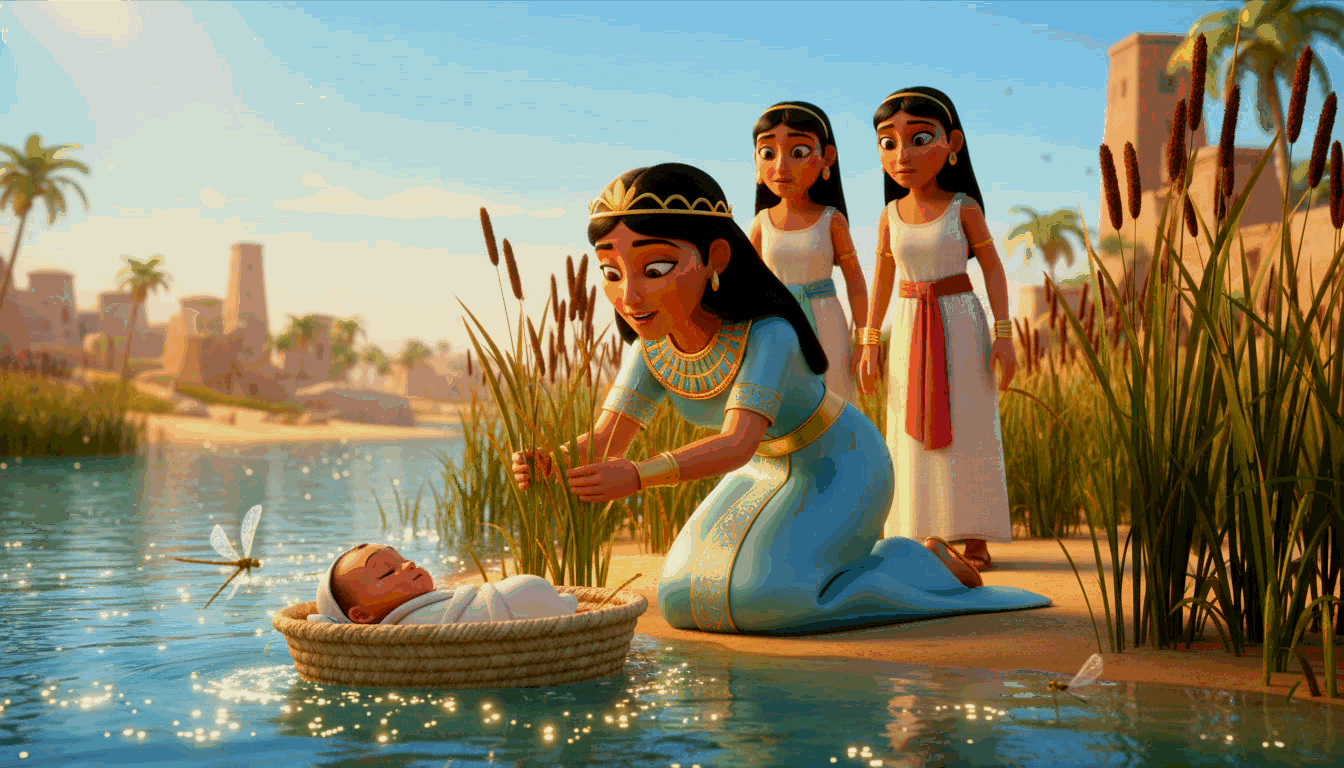
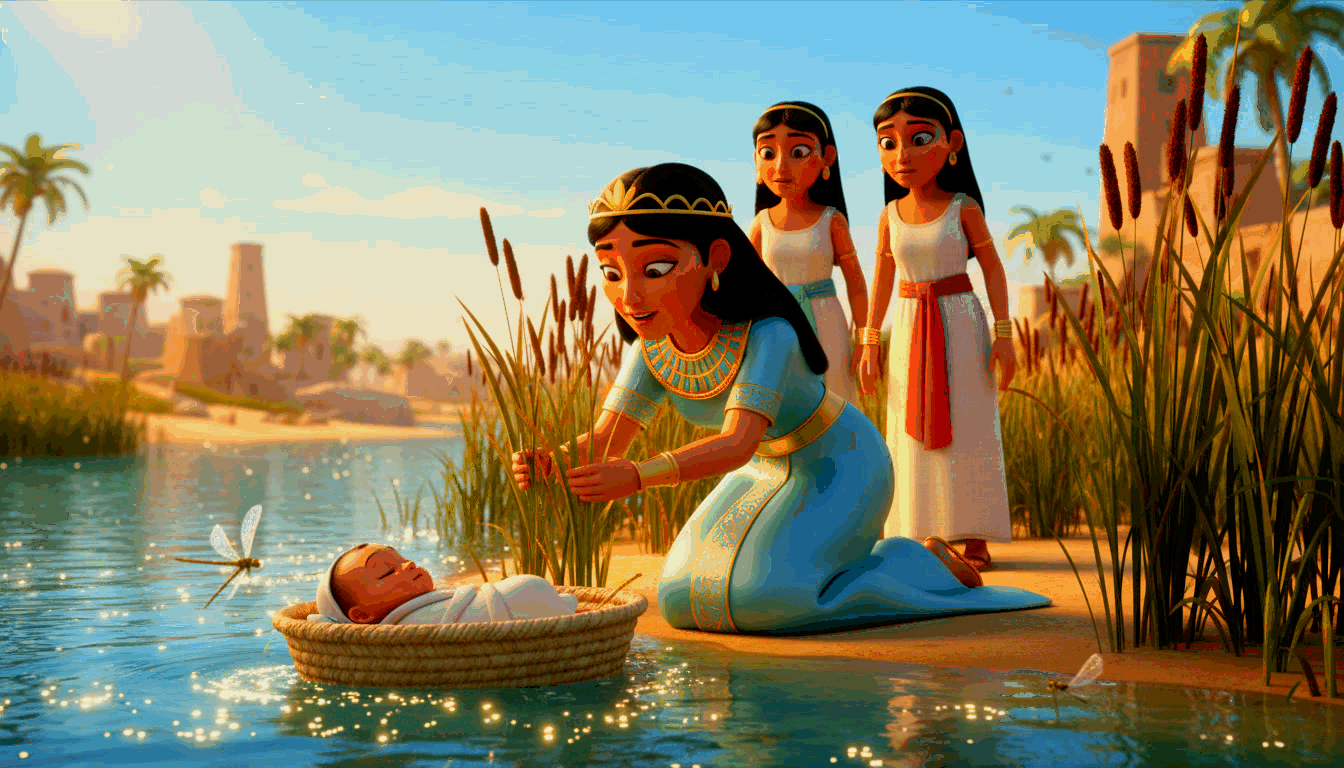
Palace-dog antagonist, key SFX, de-bleach images, remove unused, better clues (v118->v119)
- Palace dog is now a pure ANTAGONIST — removed the wrong "recognizes Moses and wags
  its tail / +1 bonus star" modal and the friendly/random variant. It barks + alerts
  guards; catching Moses still costs a heart. (Post-catch it downgrades to a harmless
  patrol via _spentCatch instead of flipping d.friendly, which had resurrected the modal.)
- Golden key pickup now plays magic sfx.mp3.
- De-bleached 4 washed-out images (princess-rescue spot-diff A/B with identical params to
  keep the puzzle's 4 differences intact, prelude-5 1/2) via saturation+contrast restore.
- Removed 9 genuinely-unused images (verified no exact/dynamic refs in any game file):
  black bomb, courage/kindness/patience icon, golden palace tile, palace wall 1, rank
  bronze/gold/silver. (The other 27 Jane listed ARE referenced — kept to avoid breakage.)
- More relevant HARD clues: the fight->flight beat (why-are-you-hitting / who-made-you-
  ruler / what-Pharaoh-did) and Jethro's reaction now hint at the actual answer instead
  of the generic "Every answer is in the Bible" filler (trivia/tf now lead with the
  specific clue).

diff --git a/scene1_palace.html b/scene1_palace.html
@@ -7148,18 +7148,18 @@ const dogs = [
   // Throne quadrant dog — paces between two corners of the upper hall
   { tx:9,  ty:3,  patrolPath:[{x:9,y:3},{x:13,y:3},{x:13,y:5},{x:9,y:5}],
     pi:0, dir:'right', state:'patrol', timer:0, seeRadius:5, patrolMs:520,
-    friendly: Math.random() < 0.20, wag:0, barking:false, barkingUntil:0,
+    friendly: false, wag:0, barking:false, barkingUntil:0,   // Jane 2026-07-04: dog is a pure ANTAGONIST — never friendly/wag/bonus
     isDog:true },
   // Mid corridor dog — patrols the same row Jane reported "guard never
   // chased me here". Now this one absolutely will.
   { tx:23, ty:11, patrolPath:[{x:18,y:11},{x:28,y:11},{x:28,y:13},{x:18,y:13}],
     pi:0, dir:'right', state:'patrol', timer:0, seeRadius:5, patrolMs:520,
-    friendly: Math.random() < 0.20, wag:0, barking:false, barkingUntil:0,
+    friendly: false, wag:0, barking:false, barkingUntil:0,   // Jane 2026-07-04: dog is a pure ANTAGONIST — never friendly/wag/bonus
     isDog:true },
   // Exit corridor dog — between the row-18 gates and the east gate
   { tx:8,  ty:20, patrolPath:[{x:8,y:20},{x:14,y:20},{x:14,y:22},{x:8,y:22}],
     pi:0, dir:'right', state:'patrol', timer:0, seeRadius:5, patrolMs:560,
-    friendly: Math.random() < 0.20, wag:0, barking:false, barkingUntil:0,
+    friendly: false, wag:0, barking:false, barkingUntil:0,   // Jane 2026-07-04: dog is a pure ANTAGONIST — never friendly/wag/bonus
     isDog:true },
 ];
 // Legacy `dog` object — preserved as an ALIAS to dogs[1] so the existing
@@ -13490,7 +13490,8 @@ function triggerInteractable(obj){
     game.hasExitKey = true;
     spawnGlitterBurstAtPlayer(28);
     setTimeout(() => spawnGlitterBurstAtPlayer(20), 180);
-    try { play('chime') || play('success'); } catch(e){}
+    // Jane 2026-07-04: play the magic SFX when the golden key is picked up.
+    try { play('magicSfx') || play('chime') || play('success'); } catch(e){}
     // 2026-05-17 PM41 (Jane: "as soon as golden key is picked up, we
     // are displaying a overhead message saying the gate will be open
     // now. this is incorrect since moses still needs to clear more
@@ -14138,17 +14139,11 @@ function checkDogInteraction(){
         if (d === dog) { interactDog(); }
         else {
           d.met = true;
-          if (d.friendly) {
-            try { play('chime'); } catch(e){}
-            // 2026-05-19 PM52 (Jane: "remove unnecessary overhead
-            // messages like 'palace dog barks'"). Dog interactions
-            // now communicate via SFX + HUD pulse only — no toasts.
-            game.stars = (game.stars || 0) + 1;
-            try { updateHudStars(); } catch(e){}
-          } else {
-            try { play('dog'); } catch(e){}
-            try { triggerGuardAlert(d.tx, d.ty); } catch(e){}
-          }
+          // Jane 2026-07-04: no friendly/wag/bonus variant — every palace dog is an
+          // antagonist. Bark + alert the guards (SFX only, no toast) unless it has
+          // already spent its one catch (then it's a harmless patrol dog).
+          try { play('dog'); } catch(e){}
+          if (!d._spentCatch) { try { triggerGuardAlert(d.tx, d.ty); } catch(e){} }
         }
         return;
       }
@@ -14163,15 +14158,13 @@ function interactDog(){
   if (dog.met) return;
   dog.met = true;
   game.dogMet = true;
-  if (dog.friendly) {
-    play('chime');
-    openDialog("The Palace Dog", "The old palace dog recognizes Moses and wags its tail. It knows a shortcut - you found 1 bonus star!");
-    game.stars += 1; updateHudStars();
-  } else {
-    play('dog');
-    openDialog("The Palace Dog", "The palace dog barks loudly - guards are alerted! Move quickly!");
-    triggerGuardAlert(dog.tx, dog.ty);
-  }
+  // Jane 2026-07-04: the palace dog is a pure ANTAGONIST — it never "wags its tail" or
+  // gives a bonus star (that modal was wrong + confusing). Stepping near it just makes
+  // it bark and alert the guards (SFX + alert vignette, no dialog); if it actually
+  // catches Moses he loses a heart (handled in the capture path). A dog that has already
+  // spent its one catch is downgraded to a harmless patrol dog and no longer alerts.
+  try { play('dog'); } catch(e){}
+  if (!dog._spentCatch) { try { triggerGuardAlert(dog.tx, dog.ty); } catch(e){} }
 }
 
 /* ---------- CHALLENGE (Mandatory Bible-bundle gates) ----------
@@ -14251,6 +14244,15 @@ function getHintForQuestion(q){
   const text  = (q.q || q.prompt || '').toLowerCase();
   const topic = (() => {
     // SPECIFIC NARRATIVE TERMS (highest priority — match the actual story beat)
+    // Jane 2026-07-04: relevant clues for the HARD "fight → flight" beat (these were
+    // falling through to the generic Hebrews/Pharaoh taglines, which didn't hint at the
+    // actual answer).
+    if (text.includes('hitting'))
+      return 'Moses saw TWO Hebrews fighting each other. He asked the one in the wrong why he was hurting a man of his OWN people — a fellow Hebrew (Exodus 2:13).';
+    if (text.includes('ruler and judge') || text.includes('break up') || (text.includes('fighting') && text.includes('say')))
+      return 'The man in the wrong snapped back at Moses: "WHO MADE YOU RULER AND JUDGE OVER US?" — so Moses knew his secret was out (Exodus 2:14).';
+    if (text.includes('pharaoh') && (text.includes('heard') || text.includes('try') || text.includes('tried')))
+      return 'When Pharaoh heard that Moses had killed the Egyptian, he tried to KILL Moses — so Moses ran away to Midian (Exodus 2:15).';
     if (text.includes('groan') || text.includes('cried out') || text.includes('cry out') || text.includes('covenant'))
       return 'God heard the Israelites\' suffering and remembered His covenant with Abraham (Exodus 2:23-25).';
     // v3.x audit (Bug 145 — Jane: irrelevant clue on the "By faith he
@@ -14332,8 +14334,12 @@ function getHintForQuestion(q){
     if (ref) verseHint = 'Check ' + ref[1] + ' in your Bible for the answer.';
   }
 
-  // Assemble the best available hint. Combine type coaching + topic if both are useful.
-  if (topic && typeHint) return typeHint + ' ' + topic;
+  // Assemble the best available hint. Jane 2026-07-04: when a SPECIFIC topic clue
+  // matched, LEAD with it. For trivia/tf the "type hint" is generic filler ("Every
+  // answer is in the Bible…"), so drop it and show only the relevant clue. Interactive
+  // types (fill/maze/match/slider/…) keep their mechanical coaching — it genuinely helps.
+  const _fillerType = (q.type === 'trivia' || q.type === 'tf');
+  if (topic && typeHint && !_fillerType) return typeHint + ' ' + topic;
   if (topic)             return topic;
   if (typeHint)          return typeHint;
   if (verseHint)         return verseHint;
@@ -23363,8 +23369,9 @@ function updateDog(dt){
           // walks its route (visual life) but the catch check above is
           // gated by `!d._spentCatch`, so it can never cost another
           // heart. Reset in restartScene / startScene1 dog-reset loops.
-          d._spentCatch = true;
-          d.friendly = true;     // also stop it alerting guards
+          d._spentCatch = true;  // Jane 2026-07-04: post-catch this dog stops alerting
+                                 // (checked via _spentCatch in interactDog) — do NOT flip
+                                 // d.friendly (that resurrected the wrong "wags tail" modal)
           try { _cameraShake(4, 240); } catch(e){}
           try { _softCatch("A palace dog caught Moses! Hide behind cover so it loses your scent.", IMG_SRC.dogDown || IMG_SRC.dog, 'dog'); } catch(e){}
           // 2026-05-17 PM36 (Jane: "after dog touches/catches moses,

diff --git a/scene3_midian.html b/scene3_midian.html
@@ -9224,7 +9224,7 @@ const CHALLENGE_BANK = {
       verse:'"Moses agreed to stay with the man, who gave his daughter Zipporah to Moses in marriage." (Exodus 2:21 NIV)' },
     { id:'e10', type:'trivia', q:'What did Jethro ask when his daughters came home early?',
       options:['"Did you find water?"','"Why have you returned so early today?"','"Where is the Egyptian?"','"Did the flock drink?"'], correct:1,
-      clue:'A surprised father wondered why his daughters were home sooner than usual. (Exodus 2:18)',
+      clue:'Normally the rude shepherds made them late — so Jethro was surprised and asked why they had returned so EARLY today. (Exodus 2:18)',
       verse:'"Why have you returned so early today?" (Exodus 2:18 NIV). Jethro noticed God\'s kindness in the early return.' },
     { id:'e11', type:'fill', q:'Jethro said to his daughters: "Why did you _______ him? Invite him to share bread with us!"',
       options:['Argue with','Leave','Challenge','Forget'], correct:1,
@@ -13444,6 +13444,10 @@ function getHintForQuestion(q){
     // "Moses grew up a Hebrew" line as the default on unrelated questions (e.g.
     // "how old was Moses?", "find the odd one out"). Unmatched questions now fall
     // through to the crisp type hint / verse hint instead of an irrelevant blurb.
+    // Jane 2026-07-04: relevant clue for how Jethro reacted when his daughters told him
+    // about the Egyptian who rescued them (was falling through to a generic blurb).
+    if (hasWord('invite','leave','returned','early') || text.indexOf('came home') !== -1)
+      return 'Jethro was surprised they were home so early, then said: "Why did you LEAVE him? INVITE him to eat!" — his kindness echoes God\'s welcome (Exodus 2:18-20).';
     if (hasWord('basket','papyrus','reed','reeds'))
       return 'A papyrus basket hid baby Moses on the Nile (Exodus 2:3).';
     if (hasWord('nile','river'))

diff --git a/sw.js b/sw.js
@@ -10,7 +10,7 @@
    registered (modern browsers reject blob: SW scripts), so this external
    file is the first working SW. It only runs over http(s)/localhost — on a
    file:// build it simply never registers (harmless). */
-const CACHE_VERSION = 'bek-bundle-v118'; // bump to invalidate caches on each release. History: see CHANGELOG.md
+const CACHE_VERSION = 'bek-bundle-v119'; // bump to invalidate caches on each release. History: see CHANGELOG.md
 
 // Scene-3 opening shell: precache so the first screen is instant + offline-safe
 // on returning devices. Kept small + resilient (allSettled ignores any miss) so a
